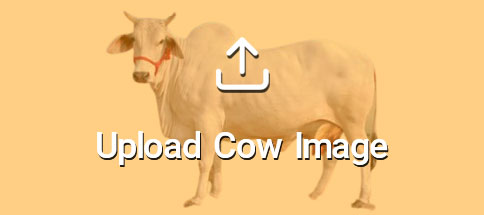
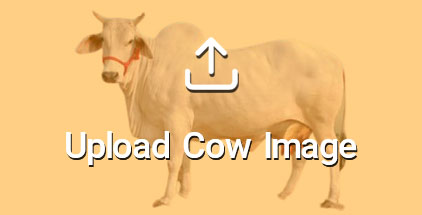
ok

diff --git a/cow-registration.html b/cow-registration.html
@@ -14,6 +14,7 @@
 <link rel="stylesheet" href="assets/vendors/select2/select2.min.css">
 <link rel="stylesheet" href="assets/vendors/date-rangepicker/daterangepicker.css">
 <link rel="stylesheet" href="assets/vendors/multi-select/css/multi-select.css">
+<link rel="stylesheet" href="assets/vendors/jquery-ui/jquery-ui.min.css">
 <link rel="preconnect" href="https://fonts.googleapis.com">
 <link rel="preconnect" href="https://fonts.gstatic.com" crossorigin>
 <link href="https://fonts.googleapis.com/css2?family=Open+Sans:wght@400;500;600;700&display=swap" rel="stylesheet">
@@ -110,10 +111,22 @@
             <div class="card-body p-md-5">
               <div class="row justify-content-center gy-4">
                 <div class="col-lg-4 text-center">
-                  <div class="profile-upload mb-2"> <img src="assets/images/upload.jpg"  class="img-fluid w-100" alt="">
-                    <div class="footer-id">COW ID : YSHHJFW4</div>
+                  <div class="profile-upload mb-2">
+					  <img src="assets/images/upload.jpg"  class="img-fluid w-100" alt="">                   
                   </div>
-                  <small class="text-black fw-bold mt-4">Please upload image in 800 X 600 pixels or 4x3 ratio</small> </div>
+                  <small class="text-black-50 fw-bold my-4">You can upload image/video and please upload image in 800 X 600 pixels or 4x3 ratio</small> 
+				  
+					 
+<ul id="sortable1" class="thumbnail-alignment">
+  <li><img src="assets/images/thumb.png" alt=""> <span class="delete-thumb"> <i data-feather="x-circle"></i> </span>  </li>
+  <li><img src="assets/images/thumb.png" alt=""> <span class="delete-thumb"> <i data-feather="x-circle"></i> </span> </li>
+  <li><img src="assets/images/thumb.png" alt=""> <span class="delete-thumb"> <i data-feather="x-circle"></i> </span> </li>
+  <li><img src="assets/images/thumb.png" alt=""> <span class="delete-thumb"> <i data-feather="x-circle"></i> </span> </li>
+</ul>
+		 <!--  <small class="text-black-50 fw-bold my-4">You can drag and drop thumbnails for make sequence</small> -->
+						  
+				  
+				  </div>
                 <div class="col-lg-8">
                   <div class="row gy-4">
 					  <div class="col-lg-6 col-xxl-4">
@@ -128,7 +141,7 @@
                     <div class="col-lg-6 col-xxl-4">
                       <div class="form-group">
                         <label for="Name" class="form-label  ">COW ID:</label>
-                        <input type="text" autofocus class="form-control  " id="Name" placeholder="">
+                        <input type="text" class="form-control  " id="Name" placeholder="">
                       </div>
                     </div>
                     <div class="col-lg-6 col-xxl-4">
@@ -139,8 +152,8 @@
                     </div>
                     <div class="col-lg-6 col-xxl-4">
                       <div class="form-group">
-                        <label for="breed" class="form-label  ">Category</label>
-                        <select class="form-select  " id="breed">
+                        <label for="Category" class="form-label  ">Category</label>
+                        <select class="form-select  " id="Category">
                           <option selected>Cow</option>
                           <option value="1">OX</option>
 							<option value="Bull"> Bull</option>
@@ -195,7 +208,7 @@
                       </div>
                     </div>
                     <div class="col-lg-6 col-xxl-4">
-                      <label for="" class="form-label  ">Is Adopted</label>
+                      <label for="" class="form-label">Available for adoption</label>
                       <div class="btn-group d-flex w-100  flatshadow" role="group">
                         <input type="radio" class="btn-check" name="Addoptted" id="btnradio13" autocomplete="off" checked>
                         <label class="btn btn-outline-primary" for="btnradio13">Yes </label>
@@ -203,11 +216,26 @@
                         <label class="btn btn-outline-primary" for="btnradio14">No </label>
                       </div>
                     </div>
+					    <div class="col-lg-6 col-xxl-4">
+                      <div class="form-group">
+                        <label for="Status" class="form-label  ">Current Status</label>
+                        <select class="form-select  " id="Status">
+                          <option selected>Live</option>
+                          <option value="1">Theft</option>
+                        </select>
+                      </div>
+                    </div>
+					  <div class="col-lg-6 col-xxl-4">
+                      <div class="form-group">
+                        <label for="damt" class="form-label">Donation Amount</label>
+                        <input type="text" class="form-control" id="damt">
+                      </div>
+                    </div>
                     <div class="col-lg-12"> <br>
                     </div>
                     <div class="col-lg-6 col-xxl-4">
                       <div class="form-group">
-                        <label for="Entry" class="form-label  ">Entry Date</label>
+                        <label for="Entry" class="form-label  ">Rescued Date</label>
                         <input type="date" class="form-control  " id="Entry">
                       </div>
                     </div>
@@ -231,10 +259,17 @@
                     </div>
                     <div class="col-lg-6 col-xxl-4">
                       <div class="form-group">
-                        <label for="Father" class="form-label  ">Father OX ID </label>
-                        <input type="text" class="form-control  " id="Father" placeholder="">
+                        <label for="Father" class="form-label">Father OX ID </label>
+                        <input type="text" class="form-control" id="Father" placeholder="">
                       </div>
                     </div>
+					  
+					  <div class="col-lg-12">
+						  <div class="form-group">
+						    <label for="" class="form-label">Description</label>
+							<textarea name="" id="" cols="30" rows="5" class="form-control"></textarea>
+						  </div>
+					  </div>
                   </div>
                 </div>
                 <div class="col-lg-12">
@@ -256,6 +291,7 @@
 <!-- content --> 
 
 <script type="text/javascript" src="assets/js/jquery-3.6.0.min.js"></script> 
+<script type="text/javascript" src="assets/vendors/jquery-ui/jquery-ui.min.js"></script>
 <script type="text/javascript" src="assets/vendors/select2/select2.min.js"></script> 
 <script type="text/javascript" src="assets/vendors/bootstrap-5.2/js/bootstrap.bundle.min.js"></script> 
 <script type="text/javascript" src="assets/vendors/datatable/datatables.min.js"></script> 
@@ -270,6 +306,15 @@
 <script type="text/javascript" src="assets/vendors/multi-select/js/jquery.multi-select.js"></script> 
 <script type="text/javascript" src="assets/js/main.js"></script> 
 <script>
+	
+	  $( function() {
+    $( "#sortable1, #sortable2" ).sortable({
+      connectWith: ".connectedSortable"
+    }).disableSelection();
+  } );
+  
+	
+	
     // [ pre select ]
     $('#my-select').multiSelect();
     $('.moduleselect2').select2();

diff --git a/assets/css/mstyle.css b/assets/css/mstyle.css
@@ -2318,23 +2318,23 @@ input[type="file"]::file-selector-button:hover {
   padding: 10px;
 }
 .profile-upload {
-  display: flex;
-  align-content: center;
-  justify-content: center;
-  background-color: white;
-  width: 100%;
+  /* display: flex; */
+  /* align-content: center; */
+  /* justify-content: center; */
+  /* background-color: white; */
+  /* width: 100%; */
   border: 2px #000000;
   border-radius: 6px;
-  font-weight: 600;
-  color: #000000;
-  flex-direction: column;
-  text-align: center;
+  /* font-weight: 600; */
+  /* color: #000000; */
+  /* flex-direction: column; */
+  /* text-align: center; */
   /* padding-top: 27%; */
   /* height: 100%; */
   cursor: pointer;
   border-style: dashed;
-  height: 254px;
-  overflow: hidden;
+  /* height: 254px; */
+  /* overflow: hidden; */
 }
 .profile-upload span {
   display: flex;
@@ -2374,14 +2374,35 @@ input[type="file"]::file-selector-button:hover {
 .flatshadow:focus {
   box-shadow: 2px 2px 0 0 #ff6400;
 }
-.profile-upload img {
-  height: 100%;
-  object-fit: cover;
-  background-color: #fad388;
-  max-height: calc(100% - 30px);
+
+.thumbnail-alignment{
+	list-style: none;
+	display: grid;
+	grid-template-columns: 1fr 1fr 1fr;
+	padding: 0;
+	margin: 10px -5px;
+	
 }
-.inputdsn {
-  /* border: 1px #ffd7bd; */
-  /* border-style: inset; */
-  /* height: 100%; */
+.thumbnail-alignment li {
+    margin: 5px;
+    max-width: 100%;
+    position: relative;
+    cursor: grab;
+}
+.thumbnail-alignment li img{
+	width: 100%;
+}
+.delete-thumb{
+	position: absolute;
+	background: white;
+	z-index: 1;
+	top: -6px;
+	right: -6px;
+	border-radius: 30px;
+	cursor: pointer;
+	color: #cd2424;
+}
+.ui-sortable-helper{
+	opacity: 0.5;
+	cursor: grabbing!important;
 }
